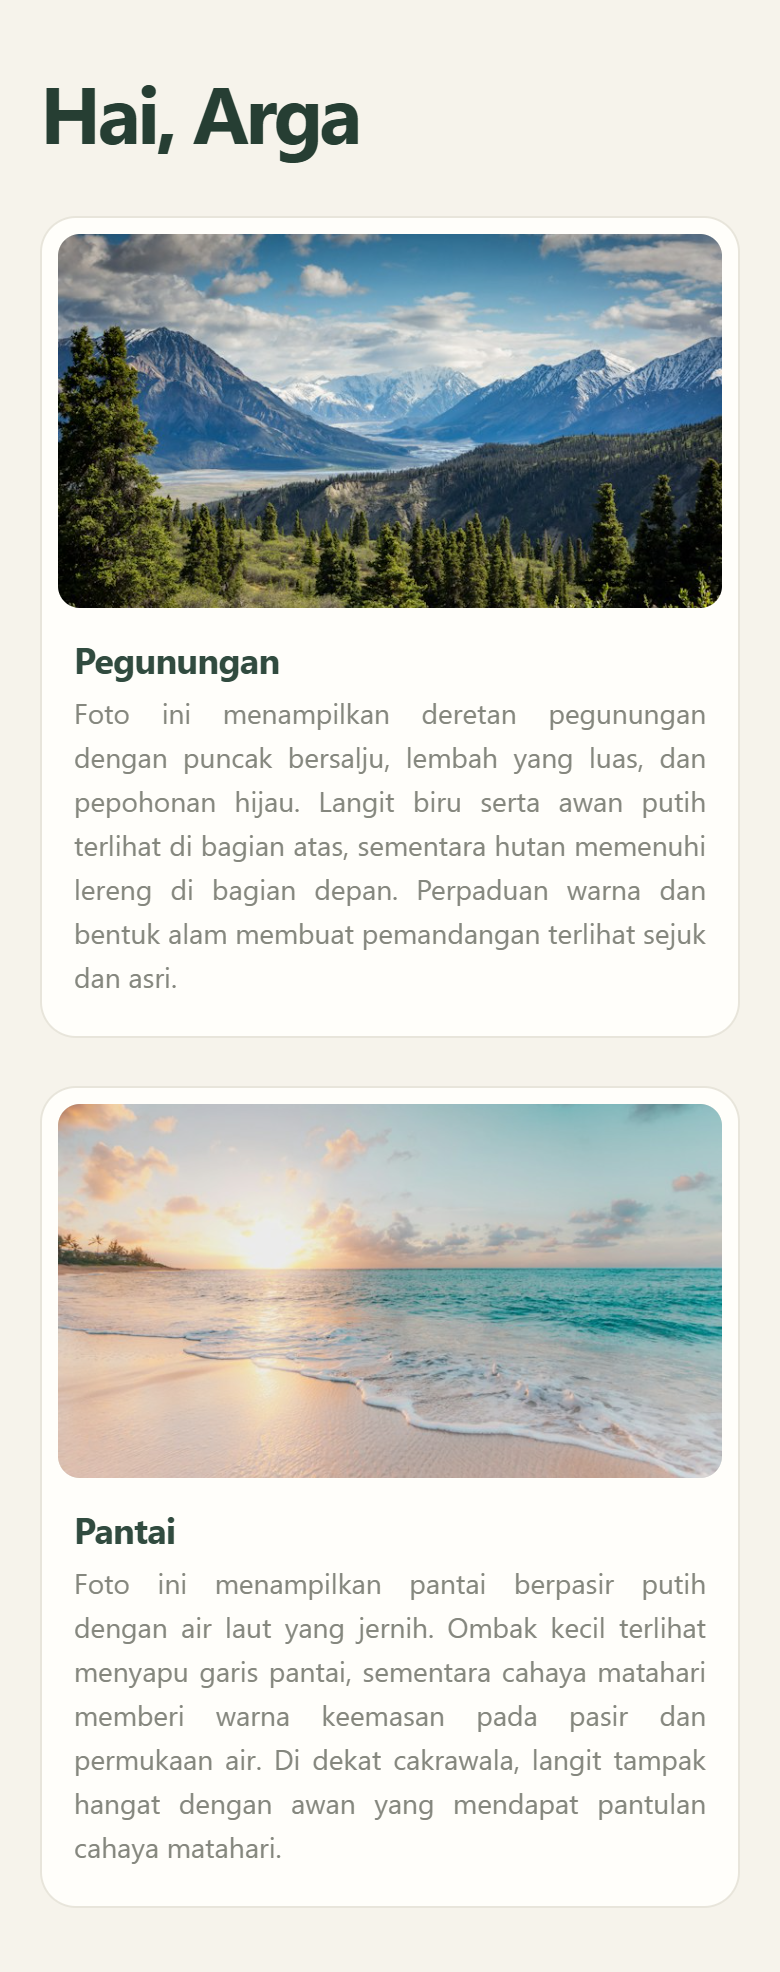
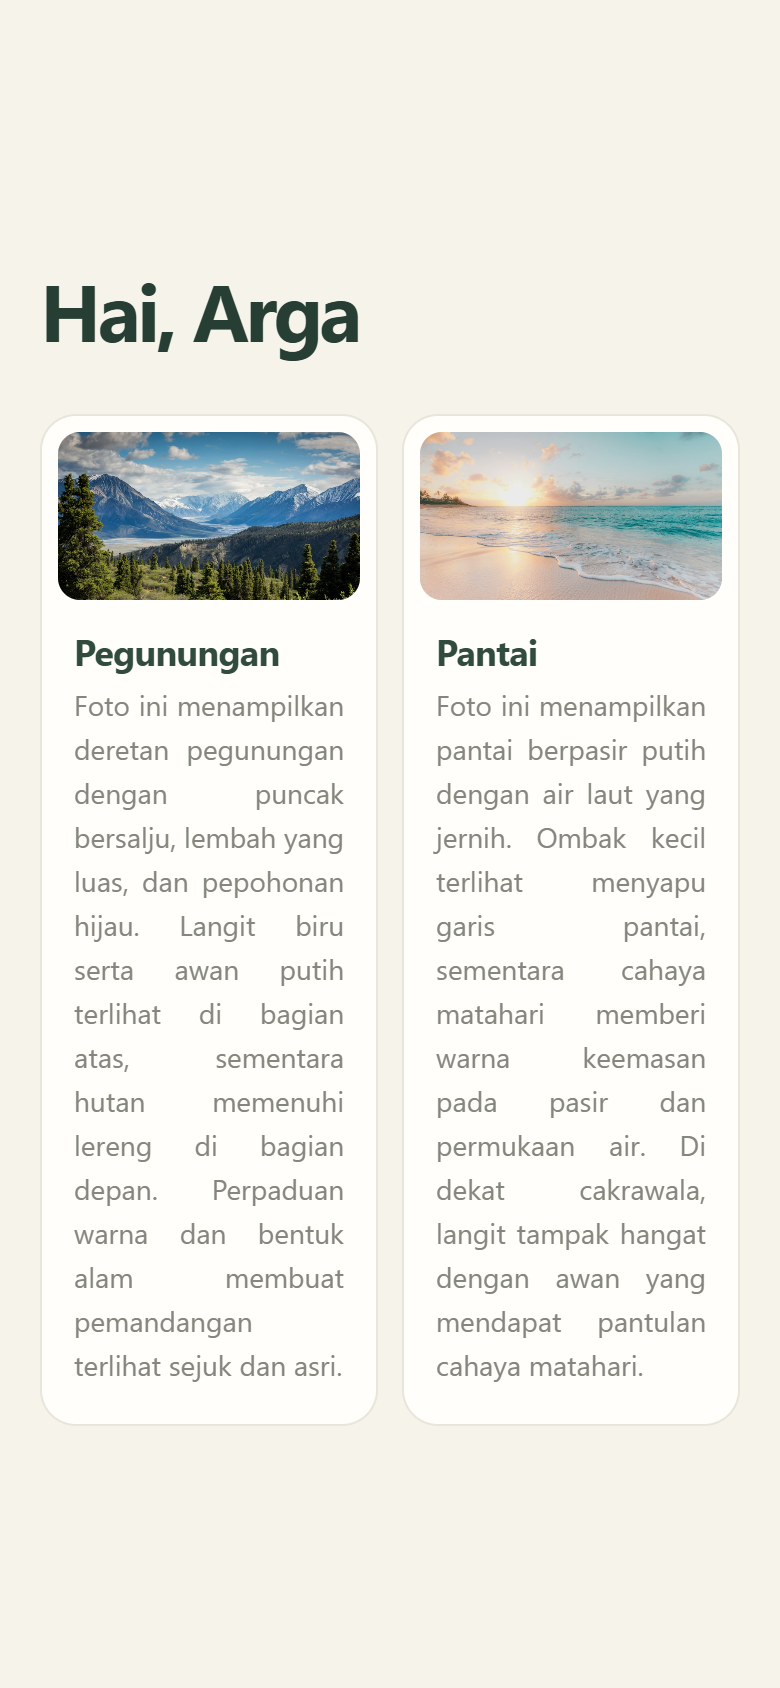
Arrange landscape photos side by side

diff --git a/App.js b/App.js
@@ -88,11 +88,13 @@ const styles = StyleSheet.create({
     marginBottom: 28,
   },
   gallery: {
-    flexDirection: 'column',
-    gap: 24,
+    flexDirection: 'row',
+    alignItems: 'stretch',
+    gap: 12,
   },
   photoCard: {
-    width: '100%',
+    flex: 1,
+    minWidth: 0,
     backgroundColor: '#FFFEFA',
     padding: 8,
     borderRadius: 18,

diff --git a/README.md b/README.md
@@ -2,7 +2,7 @@
 
 Tugas kuliah untuk latihan layout sederhana menggunakan React Native dan Expo SDK 57.
 
-Aplikasi menampilkan sapaan **Hai, Arga**, dua foto landscape berbingkai dari folder lokal yang tersusun ke bawah, dan caption di bawah setiap foto. Layout dibuat menggunakan `View`, `Text`, `Image`, `StyleSheet`, dan Flexbox.
+Aplikasi menampilkan sapaan **Hai, Arga**, dua foto landscape berbingkai dari folder lokal yang berdampingan, dan caption justify di bawah setiap foto. Layout dibuat menggunakan `View`, `Text`, `Image`, `StyleSheet`, dan Flexbox.
 
 ## Menjalankan
 
@@ -17,4 +17,4 @@ Buka aplikasi melalui Expo Go yang kompatibel dengan SDK 57. Untuk preview brows
 
 [Lihat screenshot aplikasi](screenshots/tampilan-aplikasi.png) (preview Expo Web).
 
-Hasil tugas yang dikumpulkan berupa screenshot PNG/JPG.
+Hasil tugas berupa screenshot layout aplikasi.
